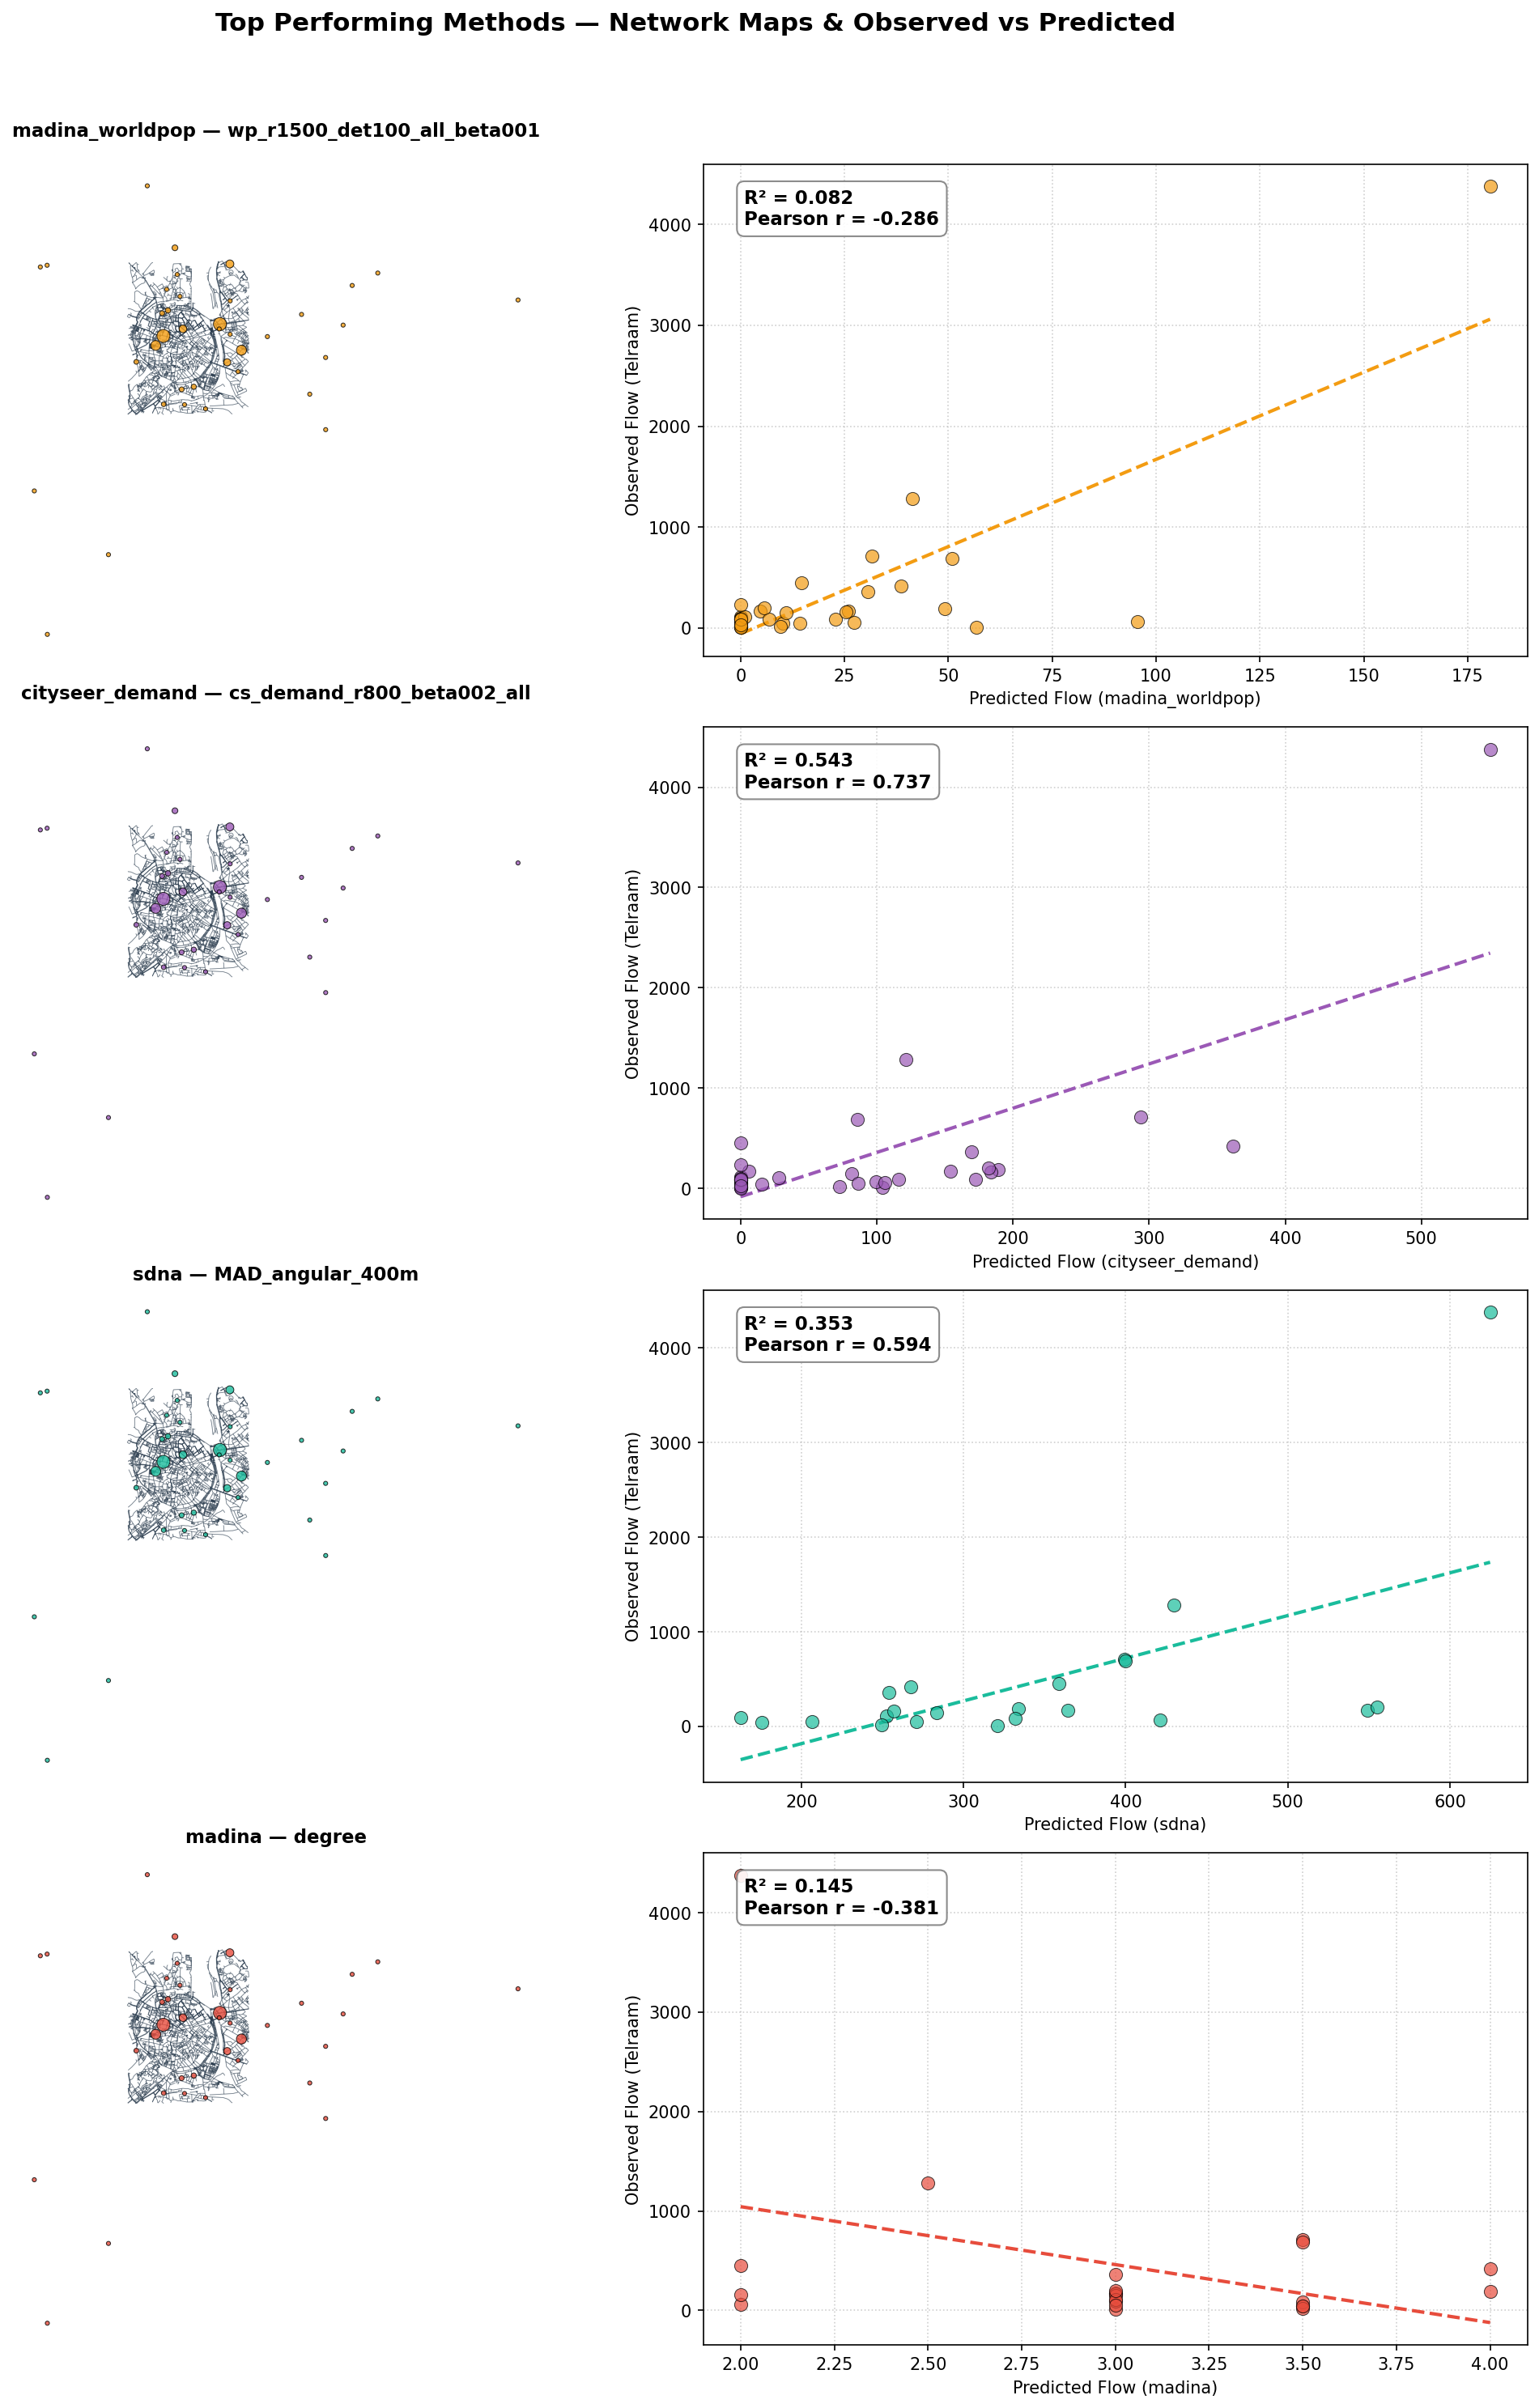
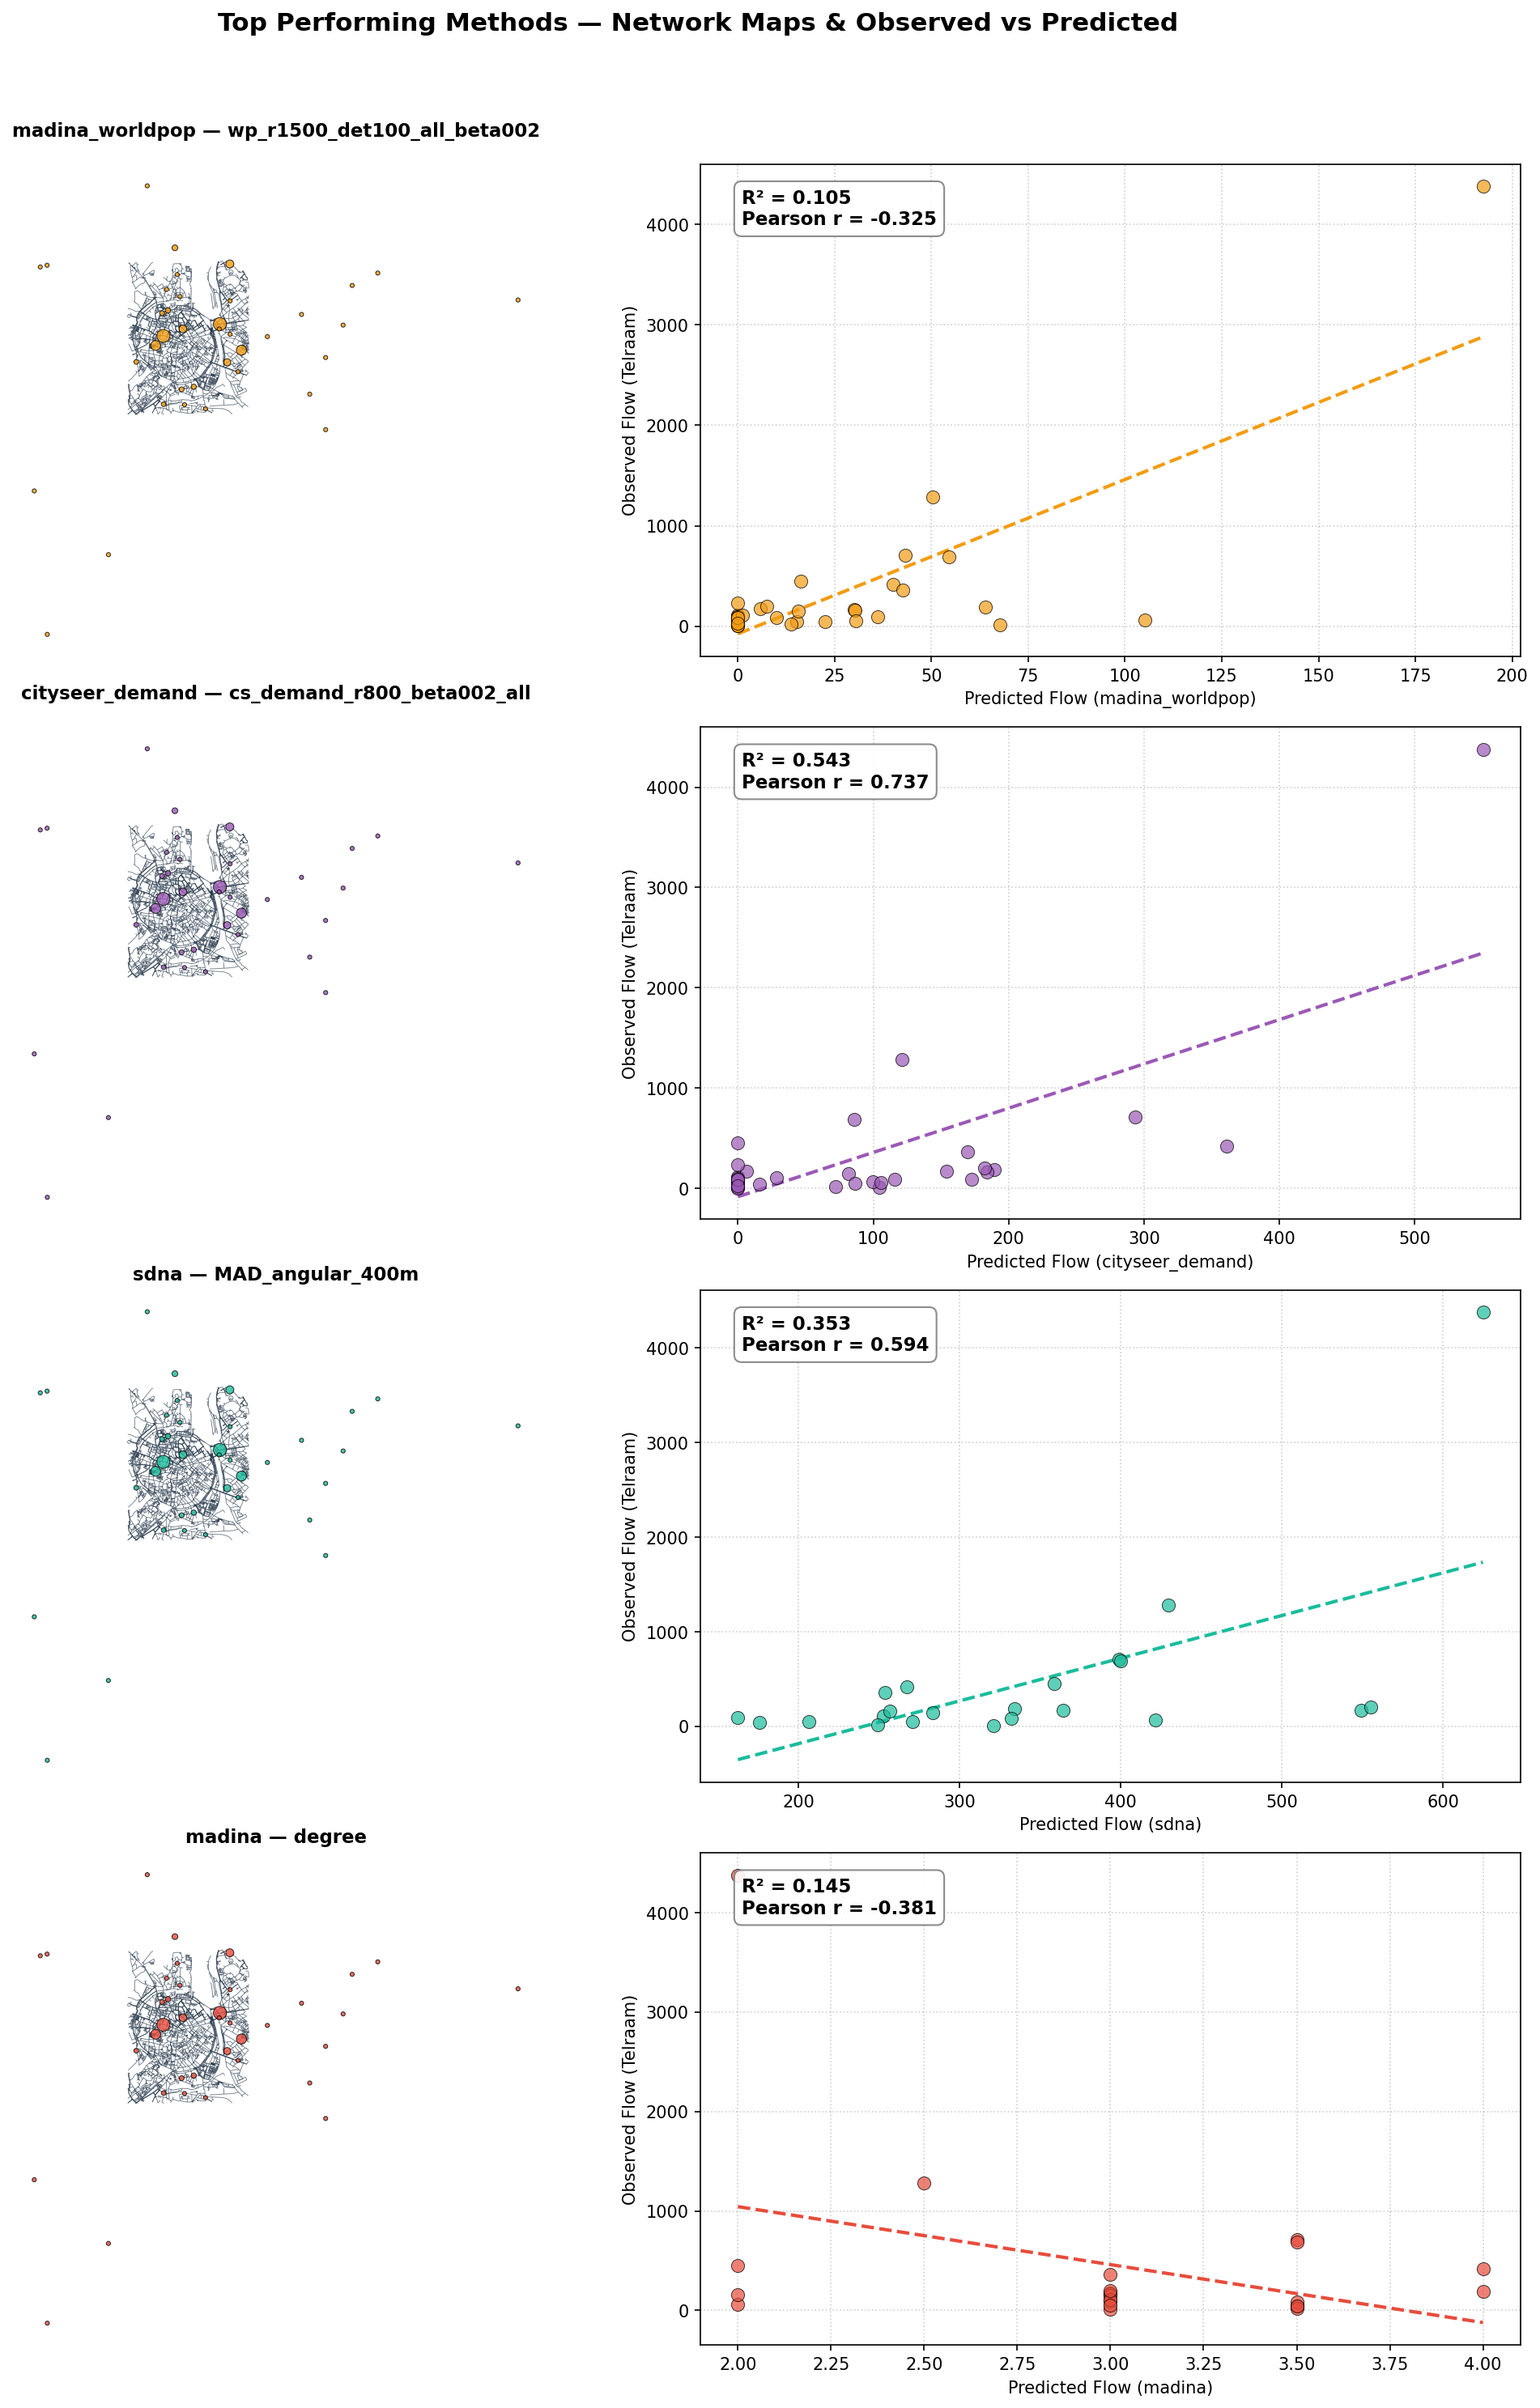
Optimize Madina gravity model parameters (best search_radius=1500m, beta=0.002, R2=0.105), remove SCM outputs from dvc.yaml, and add DVC documentation

diff --git a/scripts/run_leuven_demand_experiments.py b/scripts/run_leuven_demand_experiments.py
@@ -148,21 +148,17 @@ def main():
     
     # ── 10 experiments to test ──
     experiments = [
-        # Exp 1-5: Varying search radius (with beta=0.001)
+        # Optimized local configurations
+        {"name": "wp_r1500_det100_all_beta002", "search_radius": 1500, "detour_ratio": 1.0, "closest_destination": False, "decay": True, "beta": 0.002},
+        {"name": "wp_r1400_det100_all_beta002", "search_radius": 1400, "detour_ratio": 1.0, "closest_destination": False, "decay": True, "beta": 0.002},
+        {"name": "wp_r1600_det100_all_beta002", "search_radius": 1600, "detour_ratio": 1.0, "closest_destination": False, "decay": True, "beta": 0.002},
+        {"name": "wp_r1200_det100_all_beta0015", "search_radius": 1200, "detour_ratio": 1.0, "closest_destination": False, "decay": True, "beta": 0.0015},
         {"name": "wp_r1500_det100_all_beta001", "search_radius": 1500, "detour_ratio": 1.0, "closest_destination": False, "decay": True, "beta": 0.001},
         {"name": "wp_r2000_det100_all_beta001", "search_radius": 2000, "detour_ratio": 1.0, "closest_destination": False, "decay": True, "beta": 0.001},
         {"name": "wp_r2500_det100_all_beta001", "search_radius": 2500, "detour_ratio": 1.0, "closest_destination": False, "decay": True, "beta": 0.001},
         {"name": "wp_r3000_det100_all_beta001", "search_radius": 3000, "detour_ratio": 1.0, "closest_destination": False, "decay": True, "beta": 0.001},
-        {"name": "wp_r4000_det100_all_beta001", "search_radius": 4000, "detour_ratio": 1.0, "closest_destination": False, "decay": True, "beta": 0.001},
-        # Exp 6: Closest destination only
         {"name": "wp_r3000_det100_closest_beta001", "search_radius": 3000, "detour_ratio": 1.0, "closest_destination": True, "decay": True, "beta": 0.001},
-        # Exp 7-8: Varying beta (distance sensitivity)
-        {"name": "wp_r3000_det100_all_beta0005", "search_radius": 3000, "detour_ratio": 1.0, "closest_destination": False, "decay": True, "beta": 0.0005},
         {"name": "wp_r3000_det100_all_beta002", "search_radius": 3000, "detour_ratio": 1.0, "closest_destination": False, "decay": True, "beta": 0.002},
-        # Exp 9: No distance decay
-        {"name": "wp_r3000_det100_all_nodecay", "search_radius": 3000, "detour_ratio": 1.0, "closest_destination": False, "decay": False, "beta": 0.001},
-        # Exp 10: Extended regional catchment
-        {"name": "wp_r5000_det100_all_beta001", "search_radius": 5000, "detour_ratio": 1.0, "closest_destination": False, "decay": True, "beta": 0.001},
     ]
     
     new_results = []

diff --git a/scripts/generate_interactive_map.py b/scripts/generate_interactive_map.py
@@ -32,7 +32,7 @@ def run_simulation_and_generate_html():
     origins = gpd.read_file(get_path(os.path.join(DATA_DIR, 'leuven_worldpop_origins.geojson'))).to_crs(CRS_UTM)
     destinations = gpd.read_file(get_path(os.path.join(DATA_DIR, 'leuven_attractors.geojson'))).to_crs(CRS_UTM)
     
-    print("4. Running best gravity simulation (wp_r2000_beta002_all)...", flush=True)
+    print("4. Running best gravity simulation (wp_r1500_beta002_all)...", flush=True)
     z = Zonal()
     z.load_layer(name='streets', source=edges)
     z.create_street_network(source_layer='streets', weight_attribute='length')
@@ -44,7 +44,7 @@ def run_simulation_and_generate_html():
     
     results = parallel_betweenness(
         z.network,
-        search_radius=2000,
+        search_radius=1500,
         detour_ratio=1.0,
         decay=True,
         decay_method='exponent',

diff --git a/README.md b/README.md
@@ -24,8 +24,10 @@ Robin Lovelace
     Performance](#performance)
 - [<span class="toc-section-number">5</span> Next Steps](#next-steps)
 - [Appendix](#appendix)
-  - [<span class="toc-section-number">5.1</span>
-    Reproducibility](#reproducibility)
+  - [<span class="toc-section-number">5.1</span> How to Run and Update
+    Benchmarks](#how-to-run-and-update-benchmarks)
+  - [<span class="toc-section-number">5.2</span> Project Structure &
+    Reproducibility](#project-structure--reproducibility)
 
 ## Abstract
 
@@ -195,9 +197,9 @@ Table 5: Cityseer centrality results.
 
 | Variant        | R²    | Pearson r | Time (s) | RAM (MB) | Seg/s  | Matched |
 |----------------|-------|-----------|----------|----------|--------|---------|
-| shortest_3200m | 0.008 | -0.091    | 0.6      | 418      | 30606  | 22      |
-| shortest_800m  | 0.004 | -0.064    | 0.1      | 374      | 191724 | 22      |
-| shortest_200m  | 0.000 | -0.012    | 0.0      | 371      | 623652 | 22      |
+| shortest_3200m | 0.008 | -0.091    | 0.6      | 418      | 30574  | 22      |
+| shortest_800m  | 0.004 | -0.064    | 0.1      | 374      | 260234 | 22      |
+| shortest_200m  | 0.000 | -0.012    | 0.0      | 372      | 675484 | 22      |
 
 </div>
 
@@ -209,8 +211,8 @@ Table 6: Madina centrality results.
 
 | Variant          | R²    | Pearson r | Time (s) | RAM (MB) | Seg/s | Matched |
 |------------------|-------|-----------|----------|----------|-------|---------|
-| degree           | 0.145 | -0.381    | 0.7      | 428      | 26810 | 22      |
-| btw_weighted_200 | 0.002 | -0.041    | 2.9      | 425      | 6603  | 22      |
+| degree           | 0.145 | -0.381    | 0.7      | 429      | 27139 | 22      |
+| btw_weighted_200 | 0.002 | -0.041    | 2.8      | 425      | 6732  | 22      |
 
 </div>
 
@@ -222,8 +224,8 @@ Table 7: sDNA+ centrality results.
 
 | Variant          | R²    | Pearson r | Time (s) | RAM (MB) | Seg/s | Matched |
 |------------------|-------|-----------|----------|----------|-------|---------|
-| MAD_angular_400m | 0.353 | 0.594     | 11.0     | 400      | 1739  | 22      |
-| MAD_angular_200m | 0.264 | 0.514     | 4.1      | 400      | 4676  | 22      |
+| MAD_angular_400m | 0.353 | 0.594     | 12.1     | 400      | 1587  | 22      |
+| MAD_angular_200m | 0.264 | 0.514     | 4.2      | 400      | 4571  | 22      |
 
 </div>
 
@@ -248,10 +250,10 @@ Table 8: Madina WorldPop gravity results.
 
 | Variant                      | R²    | Pearson r | Time (s) | RAM (MB) | Seg/s | Matched |
 |------------------------------|-------|-----------|----------|----------|-------|---------|
-| wp_r3000_det100_all_beta002  | 0.070 | -0.264    | 45.6     | 304      | 207   | 22      |
-| wp_r2000_det100_all_beta001  | 0.056 | -0.237    | 29.7     | 304      | 318   | 22      |
-| wp_r3000_det100_all_beta001  | 0.043 | -0.207    | 43.0     | 304      | 220   | 22      |
-| wp_r3000_det100_all_beta0005 | 0.040 | -0.200    | 46.0     | 304      | 206   | 22      |
+| wp_r1500_det100_all_beta002  | 0.105 | -0.325    | 20.5     | 300      | 461   | 22      |
+| wp_r1600_det100_all_beta002  | 0.103 | -0.320    | 22.3     | 304      | 423   | 22      |
+| wp_r1400_det100_all_beta002  | 0.102 | -0.320    | 19.0     | 304      | 497   | 22      |
+| wp_r1200_det100_all_beta0015 | 0.092 | -0.303    | 16.2     | 305      | 582   | 22      |
 
 </div>
 
@@ -261,9 +263,9 @@ Table 9: Cityseer Demand gravity results.
 
 | Variant                     | R²    | Pearson r | Time (s) | RAM (MB) | Seg/s  | Matched |
 |-----------------------------|-------|-----------|----------|----------|--------|---------|
-| cs_demand_r800_beta002_all  | 0.543 | 0.737     | 0.1      | 420      | 319686 | 22      |
-| cs_demand_r1200_beta002_all | 0.515 | 0.718     | 0.1      | 420      | 267936 | 22      |
-| cs_demand_r2000_beta002_all | 0.437 | 0.661     | 0.1      | 420      | 212274 | 22      |
+| cs_demand_r800_beta002_all  | 0.543 | 0.737     | 0.1      | 420      | 283079 | 22      |
+| cs_demand_r1200_beta002_all | 0.515 | 0.718     | 0.1      | 420      | 278796 | 22      |
+| cs_demand_r2000_beta002_all | 0.437 | 0.661     | 0.1      | 420      | 218547 | 22      |
 
 </div>
 
@@ -289,12 +291,56 @@ Figure 4: Computational performance: throughput and memory usage
 
 ## Appendix
 
-### Reproducibility
+### How to Run and Update Benchmarks
 
+The benchmark suite is fully orchestrated using **DVC** (Data Version
+Control) to manage dependencies, execution caching, and outputs.
+
+#### 1. Setup the Environment
+
+Ensure you have the required dependencies installed (including Python
+packages and `sDNA+` CLI) by running:
+
+``` bash
+pip install -r requirements.txt
+```
+
+#### 2. Run the Pipeline
+
+To run the entire benchmark pipeline (prepare demand datasets, run
+cityseer, madina, and sDNA benchmarks, generate visual figures, and
+compile the final report):
+
+``` bash
+dvc repro
+```
+
+DVC will trace dependencies and execute only the stages whose code,
+configurations, or data inputs have changed, retrieving the rest from
+cache.
+
+#### 3. Rapid Testing Mode
+
+To quickly test code changes on a lightweight 5,900-edge cropped dataset
+rather than the full 19k edge network: 1. Open `scripts/config.py`. 2.
+Toggle `TEST_MODE = True`. 3. Run `dvc repro`. Remember to flip
+`TEST_MODE = False` before committing final results.
+
+#### 4. Add/Modify Experiments
+
+- **sDNA+**: Edit configurations in `scripts/bench_sdna.py`.
+- **Madina (Zonal)**: Edit the dictionary grid list in
+  `scripts/run_leuven_demand_experiments.py`.
+- **Cityseer**: Edit configurations in
+  `scripts/run_cityseer_demand_experiments.py`.
+
+### Project Structure & Reproducibility
+
+- `dvc.yaml` — Stage orchestration and dependencies
 - `scripts/bench_all.py` — Unified benchmark runner
-- `results/leuven_results.csv` — Auto-generated results
+- `results/leuven_results.csv` — Compiled metrics output
 - `results/fig1_barplot.png` — R² comparison plot
-- `results/fig2_performance.png` — Speed and memory comparison
+- `results/fig2_performance.png` — Throughput and memory use comparison
 
 | Package   | Version   |
 |-----------|-----------|